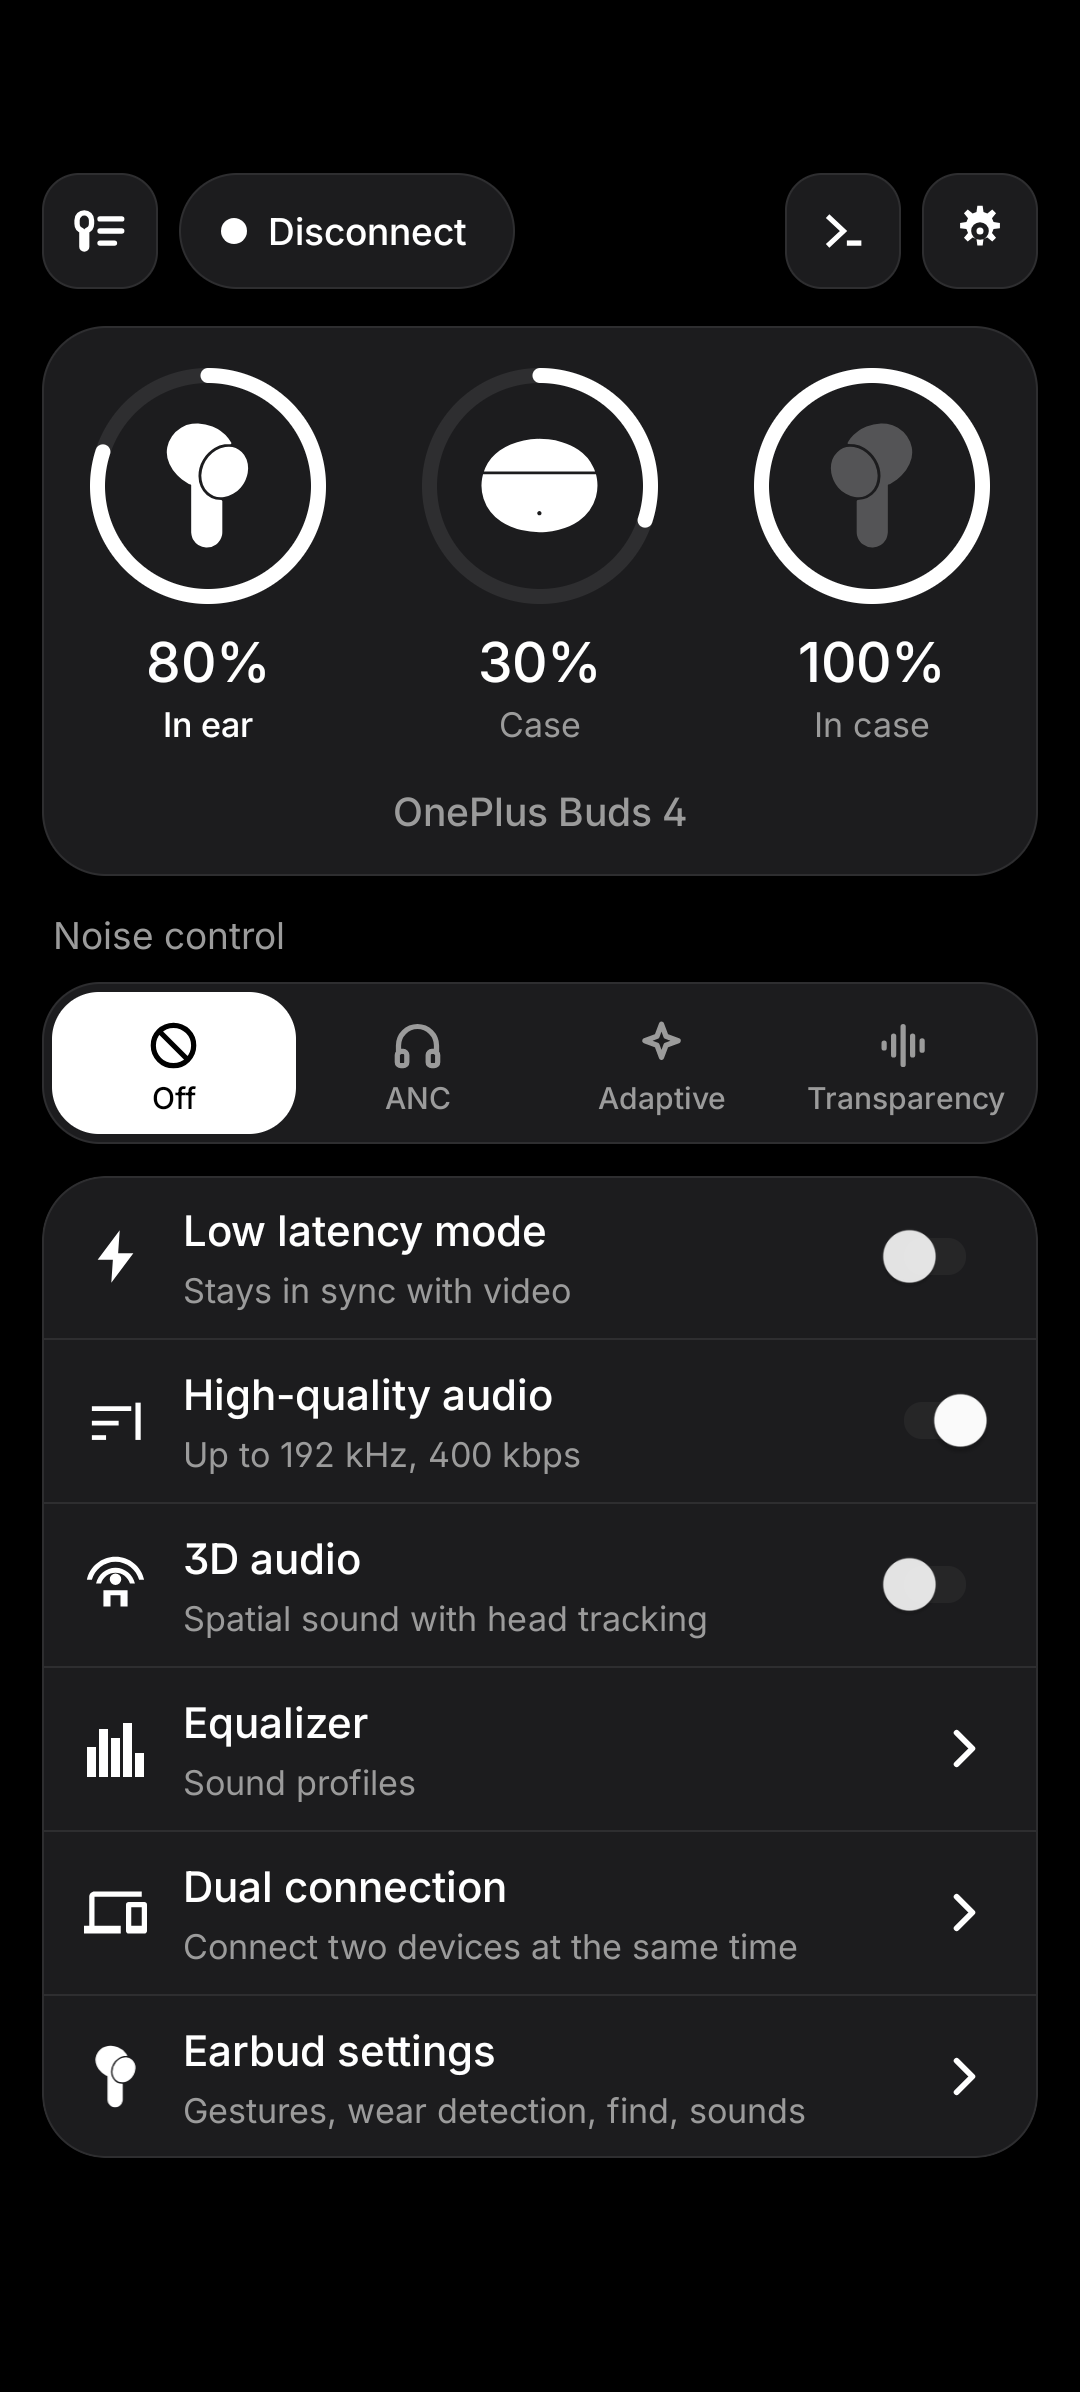
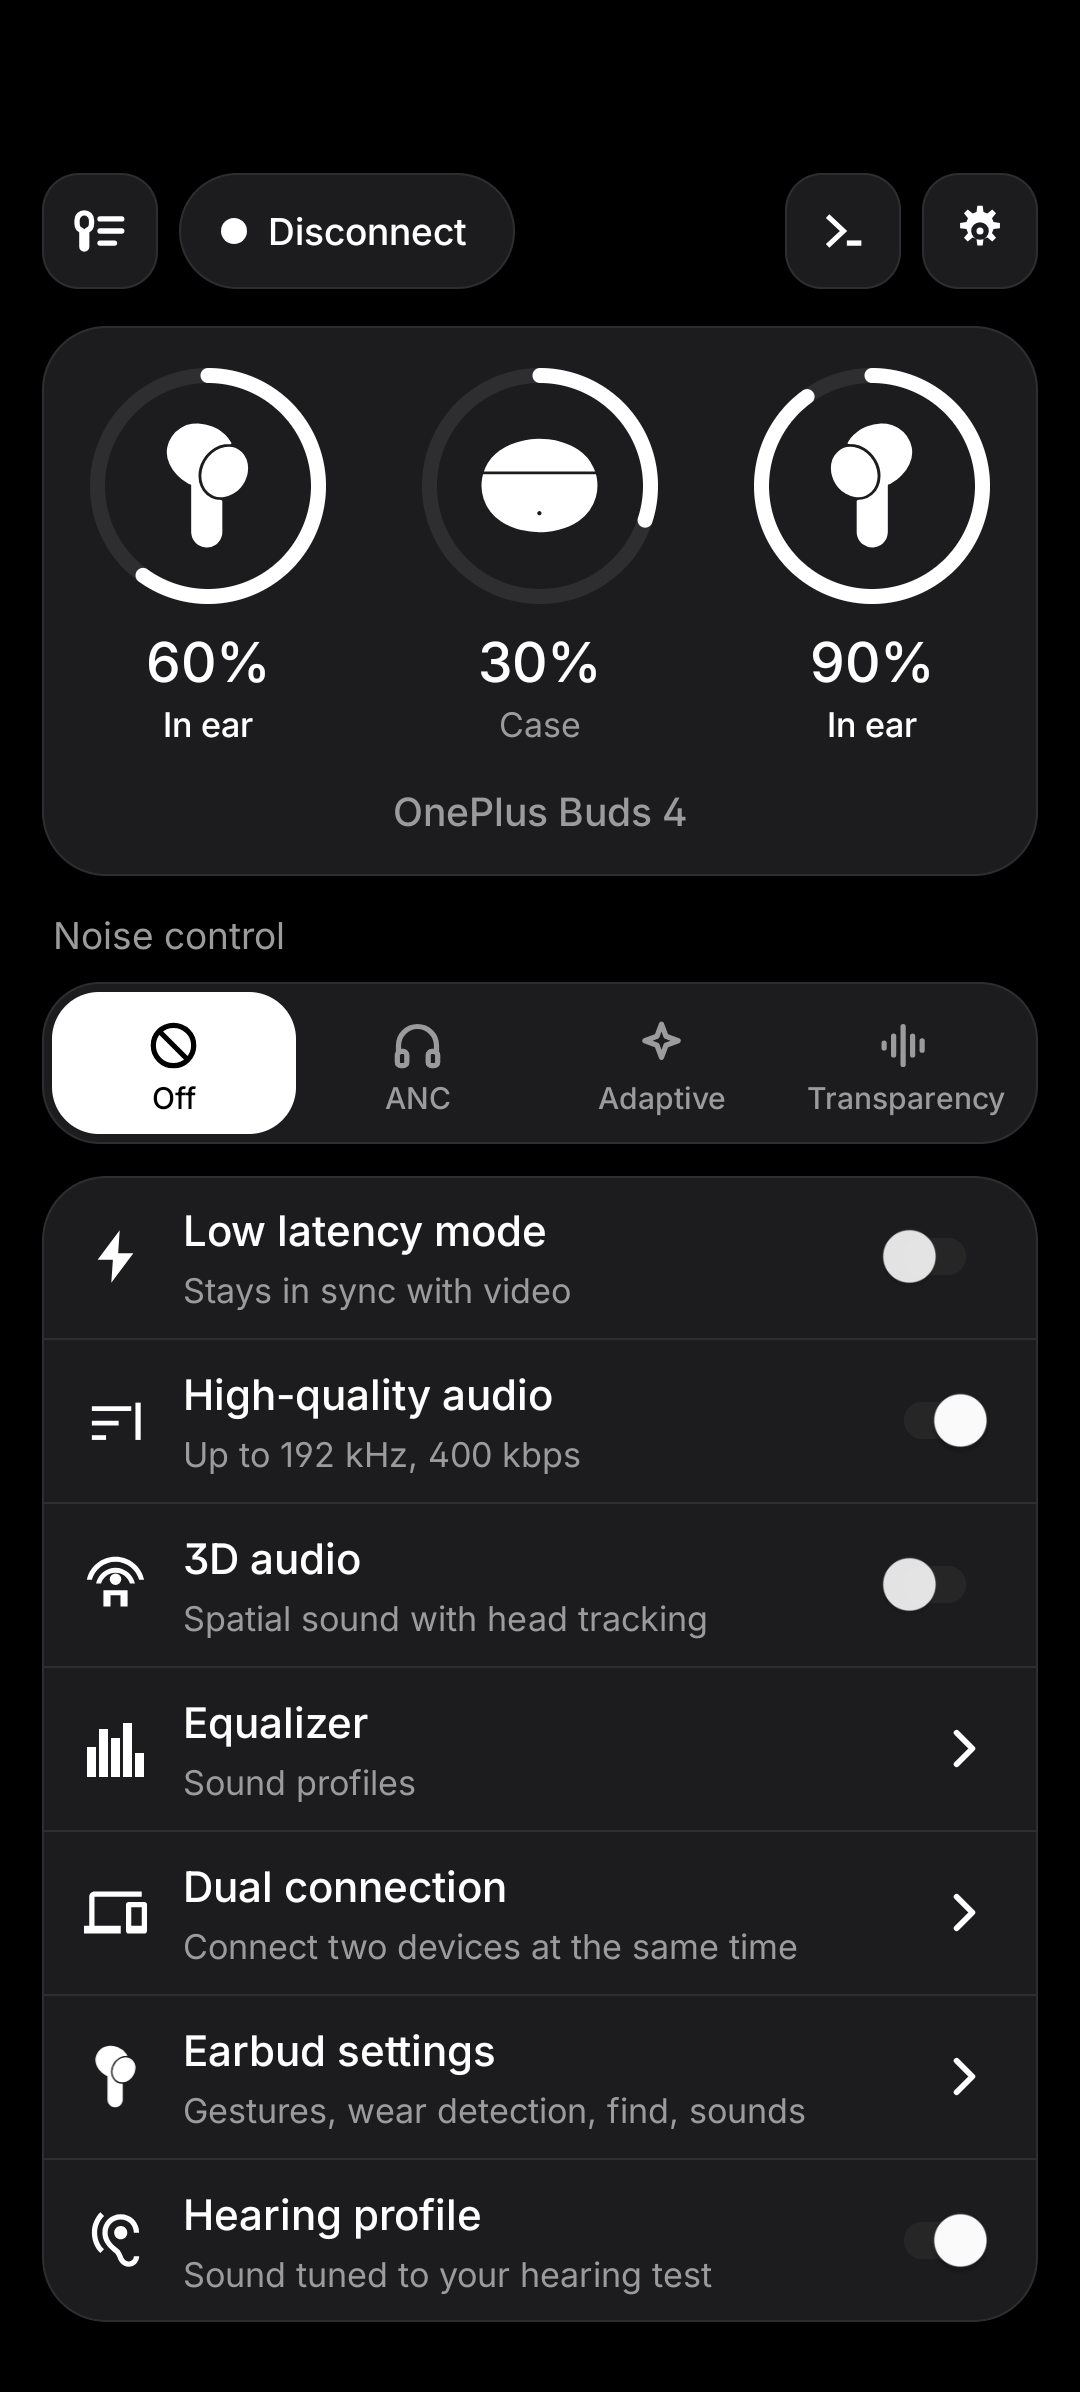
3.5.0: README screenshots with Hearing profile and fit test, roadmap

Changed region(s): [[0.0306, 0.8662, 0.9778, 0.99], [0.7333, 0.1547, 0.8556, 0.3094], [0.0611, 0.1856, 0.1222, 0.2475]]

diff --git a/README.md b/README.md
@@ -1,8 +1,8 @@
 # QuickBuds
 
 > Open-source HeyMelody alternative for Android. Control OnePlus / OPPO / realme earbuds over
-> Bluetooth, no root: battery, noise cancellation (ANC), equalizer, gestures, wear detection, find my
-> earbuds, dual connection, low latency mode and home screen widgets.
+> Bluetooth, no root: battery, noise cancellation (ANC), equalizer, hearing profile, gestures, wear
+> detection, fit test, find my earbuds, dual connection, low latency mode and home screen widgets.
 
 [![License: GPL-3.0](https://img.shields.io/badge/License-GPL--3.0-blue.svg)](./LICENSE)
 [![Platform](https://img.shields.io/badge/Platform-Android%208%2B-3DDC84.svg)]()
@@ -26,6 +26,10 @@ home-screen widget.
 | Settings | Themes, colors & styles | Edit preset | Home layout |
 | :---: | :---: | :---: | :---: |
 | <img src="docs/screenshots/settings.png" width="200"> | <img src="docs/screenshots/theme.png" width="200"> | <img src="docs/screenshots/preset.png" width="200"> | <img src="docs/screenshots/home-layout.png" width="200"> |
+
+| Hearing profile | Hearing test | Earbud fit test |
+| :---: | :---: | :---: |
+| <img src="docs/screenshots/hearing-profile.png" width="200"> | <img src="docs/screenshots/hearing-test.png" width="200"> | <img src="docs/screenshots/fit-test.png" width="200"> |
 
 | Dual connection | Widget settings | App update | About |
 | :---: | :---: | :---: | :---: |
@@ -59,6 +63,10 @@ dot-matrix graphics. Every screen in this style is in [docs/screenshots/nothing]
 - **Equalizer:** built-in presets, up to 3 custom 6-band presets you draw on a curve, and bass boost.
   Saved on the earbuds.
 - **High-quality audio (LHDC), 3D audio and Low latency mode.**
+- **Hearing profile:** a hearing test (ear scan, then 6 tones per ear) that tunes the sound to your
+  ears, run in the app. Profiles are kept on the phone, one tap applies one, and a graph per ear shows
+  what it does. Profiles made in HeyMelody show up too.
+- **Earbud fit test:** checks that the ear tips seal well.
 - **Gestures** per bud: taps, slide and hold, plus the on-call gestures.
 - **Wear detection**, **Dual connection**, **Find my earbuds**, the earbuds' prompt volume and their
   firmware version.

diff --git a/docs/ROADMAP.md b/docs/ROADMAP.md
@@ -14,9 +14,8 @@ Status words: **Next**, **Open**, **Question** (needs an answer before work star
 
 Parity with HeyMelody is the main priority ([USER] 2026-09-29, reversing the 2026-09-27 skip):
 
-- **Golden Sound: the test itself.** Built 2026-09-29 (Golden Sound screen from the home row: profiles,
-  hearing test). Waiting for a full on-device run; move to ROADMAP-DONE once confirmed. Not built: HeyMelody's
-  before / after preview (`0x040E 01` / `02`) and renaming a profile.
+- **Hearing profile extras** (Open): HeyMelody's before / after preview on the result (`0x040E 01` / `02`,
+  PROTOCOL.md §9) and renaming a profile.
 
 **The UI adapts to the model** ([USER] 2026-09-29): a feature the model lacks is not shown; a feature a
 model has that the app does not have yet gets its UI built. So every HeyMelody feature in the model list

diff --git a/docs/ROADMAP-DONE.md b/docs/ROADMAP-DONE.md
@@ -26,6 +26,11 @@ What is finished and confirmed. The live plan is in [ROADMAP.md](./ROADMAP.md).
 
 ## Controls
 
+- Hearing profile (HeyMelody's "Golden Sound", renamed, [USER] 2026-09-29): the hearing test in the app
+  (ear scan, 12 tones, save, apply), profiles kept on the phone, the buds' own profile read back, and
+  HeyMelody's radar per ear. Full run confirmed by him on Buds 4, 2026-09-29.
+- Earbud fit test from Earbud settings, confirmed on Buds 4 (2026-09-29).
+
 - ANC: Off / Transparency / Adaptive / Low / Medium / High on the main screen and widget.
   Changes made on the buds show up in the app.
 - Earbud gestures: tap, double, triple, hold and slide per bud. The function values were measured,
